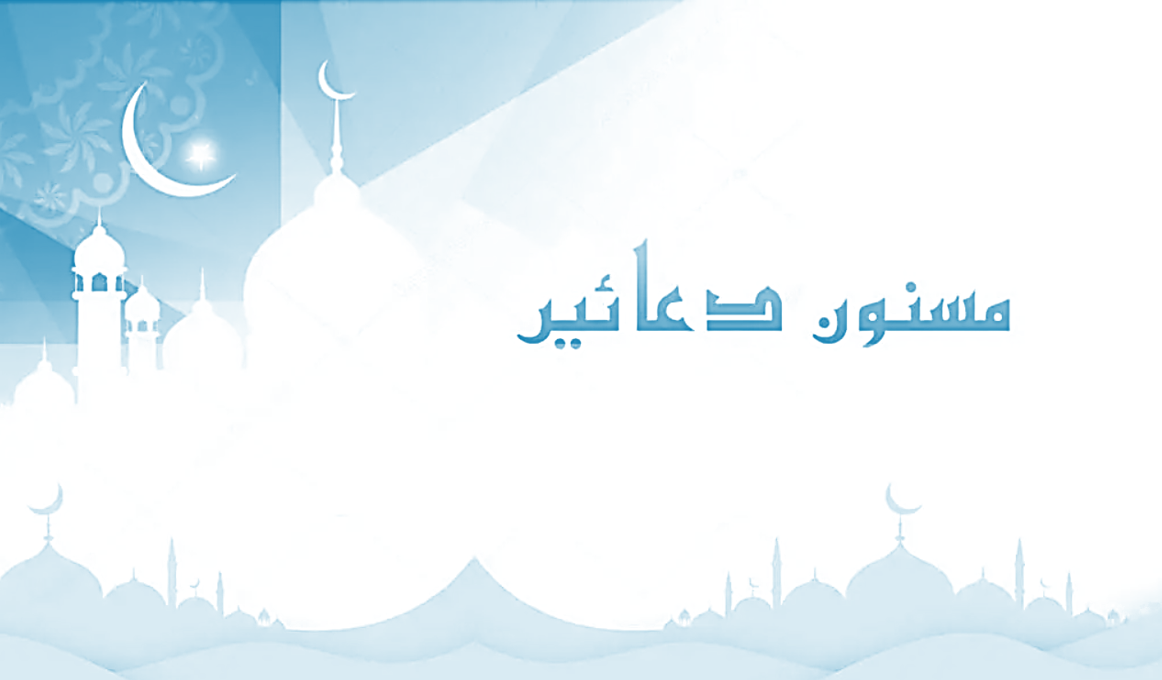
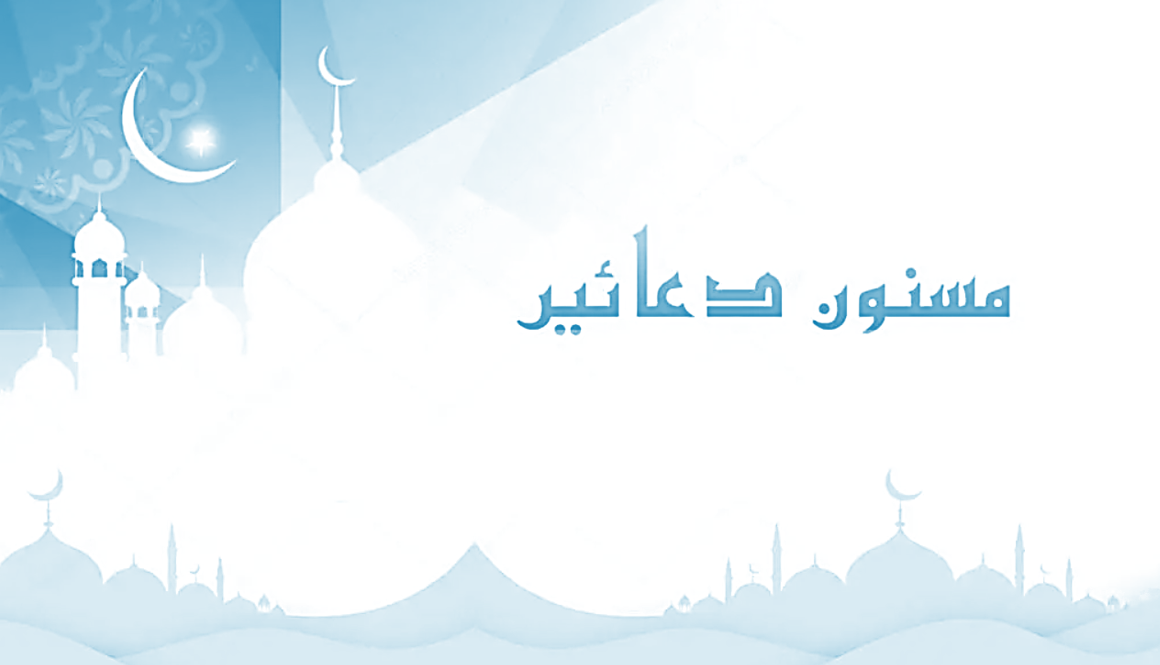
changes added

diff --git a/index.html b/index.html
@@ -35,12 +35,6 @@
             </ul>
         </div>
     </nav>
-
-  <!-- Visitor Counter Button -->
-  <div id="visitor-counter" class="visitor-counter">
-    Visitors: <span id="visitor-count">0</span>
-</div>
-
     <!-- Splash Screen -->
     <section id="splash" class="content-section section-yellow">
         <div class="container1">
@@ -245,72 +239,13 @@
         }
     }
 </script>
-<!-- Firebase App (the core Firebase SDK) -->
-<script src="https://www.gstatic.com/firebasejs/9.15.0/firebase-app.js"></script>
-<!-- Firebase Realtime Database -->
-<script src="https://www.gstatic.com/firebasejs/9.15.0/firebase-database.js"></script>
-<!-- Firebase Firestore -->
-<script src="https://www.gstatic.com/firebasejs/9.15.0/firebase-firestore.js"></script>
 
-<!-- Your Firebase Configuration -->
-<script>
-    // Your web app's Firebase configuration
-    const firebaseConfig = {
-        apiKey: "AIzaSyBw3WRpsWu7oxj1PSwMhWtWzvpUXnI38kg",
-        authDomain: "quranwebiste.firebaseapp.com",
-        projectId: "quranwebiste",
-        storageBucket: "quranwebiste.appspot.com",
-        messagingSenderId: "315842700053",
-        appId: "1:315842700053:web:fc7c92abd2d9eb4e40bf1c",
-        measurementId: "G-L8Z3GEWTDX"
-    };
 
-    // Initialize Firebase
-    firebase.initializeApp(firebaseConfig);
-    
-</script>
 
-<!-- Visitor Counter Script -->
-<script>
-    document.addEventListener("DOMContentLoaded", function() {
-        const db = firebase.database(); // Use Firestore if preferred
-
-        // Generate a unique ID for the visitor if not already present
-        function generateUniqueID() {
-            return 'xxxxxx'.replace(/[xy]/g, function(c) {
-                var r = Math.random() * 16 | 0, v = c == 'x' ? r : (r & 0x3 | 0x8);
-                return v.toString(16);
-            });
-        }
-
-        // Check for existing visitor ID
-        const visitorID = localStorage.getItem("visitorID");
-        if (!visitorID) {
-            // Generate and store a new unique visitor ID
-            const uniqueID = generateUniqueID();
-            localStorage.setItem("visitorID", uniqueID);
-
-            // Increment the total visitor count in Firebase
-            db.ref('visitorCount').transaction(function(currentCount) {
-                return (currentCount || 0) + 1;
-            }).catch(function(error) {
-                console.error("Error updating visitor count:", error);
-            });
-        }
-
-        // Retrieve and display the current visitor count from Firebase
-        db.ref('visitorCount').once('value').then(function(snapshot) {
-            document.getElementById("visitor-count").innerText = snapshot.val() || 0;
-        }).catch(function(error) {
-            console.error("Error fetching visitor count:", error);
-        });
-    });
-</script>
-
-<!-- Scripts -->
-<script src="https://code.jquery.com/jquery-3.5.1.slim.min.js"></script>
-<script src="https://cdn.jsdelivr.net/npm/@popperjs/core@2.5.4/dist/umd/popper.min.js"></script>
-<script src="https://stackpath.bootstrapcdn.com/bootstrap/4.5.2/js/bootstrap.min.js"></script>
-<script src="./CSS/scripts.js"></script>
+    <!-- Scripts -->
+    <script src="https://code.jquery.com/jquery-3.5.1.slim.min.js"></script>
+    <script src="https://cdn.jsdelivr.net/npm/@popperjs/core@2.5.4/dist/umd/popper.min.js"></script>
+    <script src="https://stackpath.bootstrapcdn.com/bootstrap/4.5.2/js/bootstrap.min.js"></script>
+    <script src="./CSS/scripts.js"></script>
 </body>
 </html>

diff --git a/CSS/styles.css b/CSS/styles.css
@@ -423,22 +423,4 @@ a:hover {
     display: flex;
     align-items: flex-end;
 }
-/* Floating Visitor Counter Button */
-.visitor-counter {
-    position: fixed;
-    bottom: 20px;
-    right: 20px;
-    background-color: #ffc107;
-    color: #000;
-    padding: 10px 15px;
-    border-radius: 50px;
-    box-shadow: 0 4px 8px rgba(0, 0, 0, 0.2);
-    font-size: 1rem;
-    z-index: 1000;
-    text-align: center;
-}
-
-.visitor-counter span {
-    font-weight: bold;
-}
 
